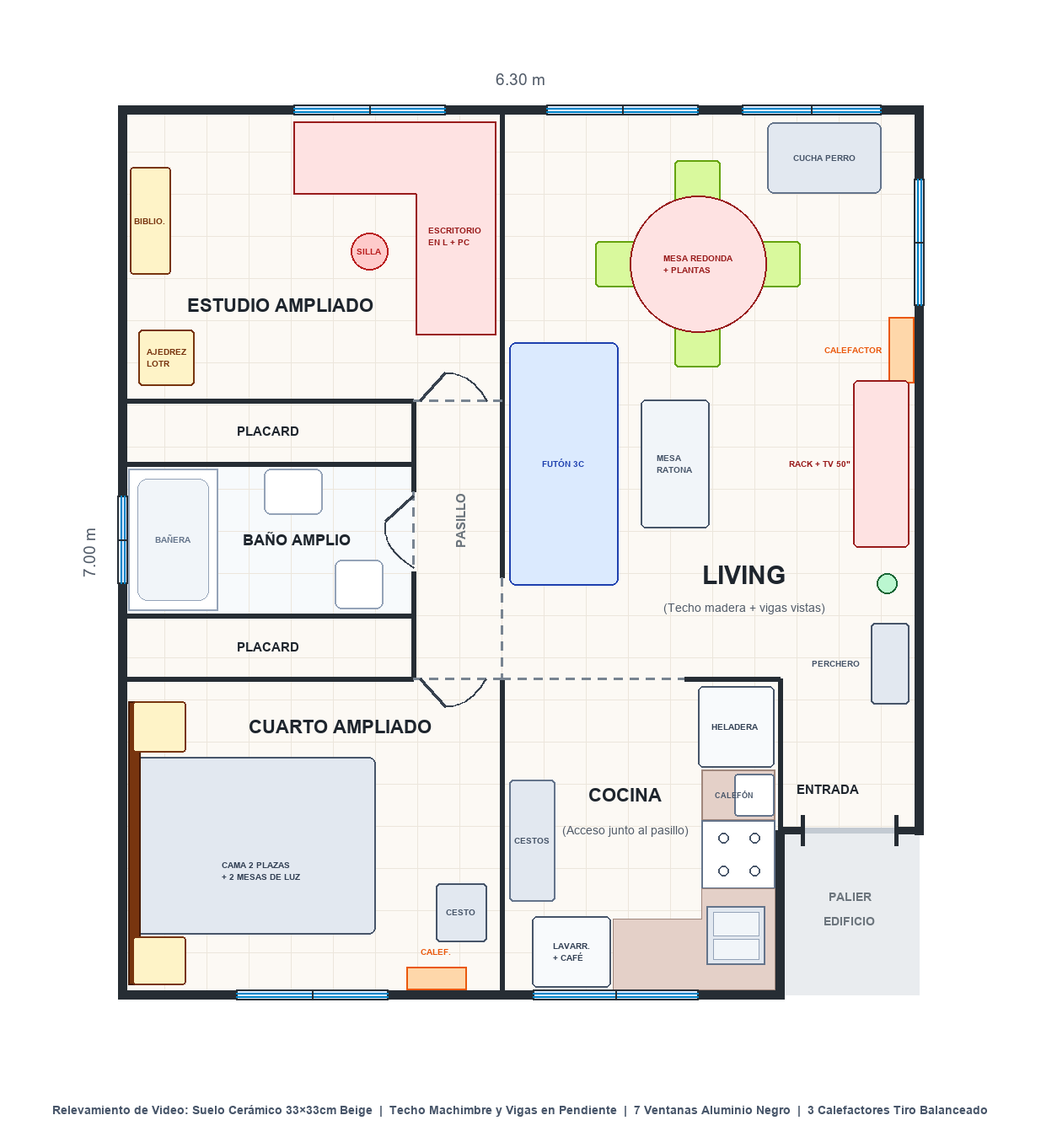
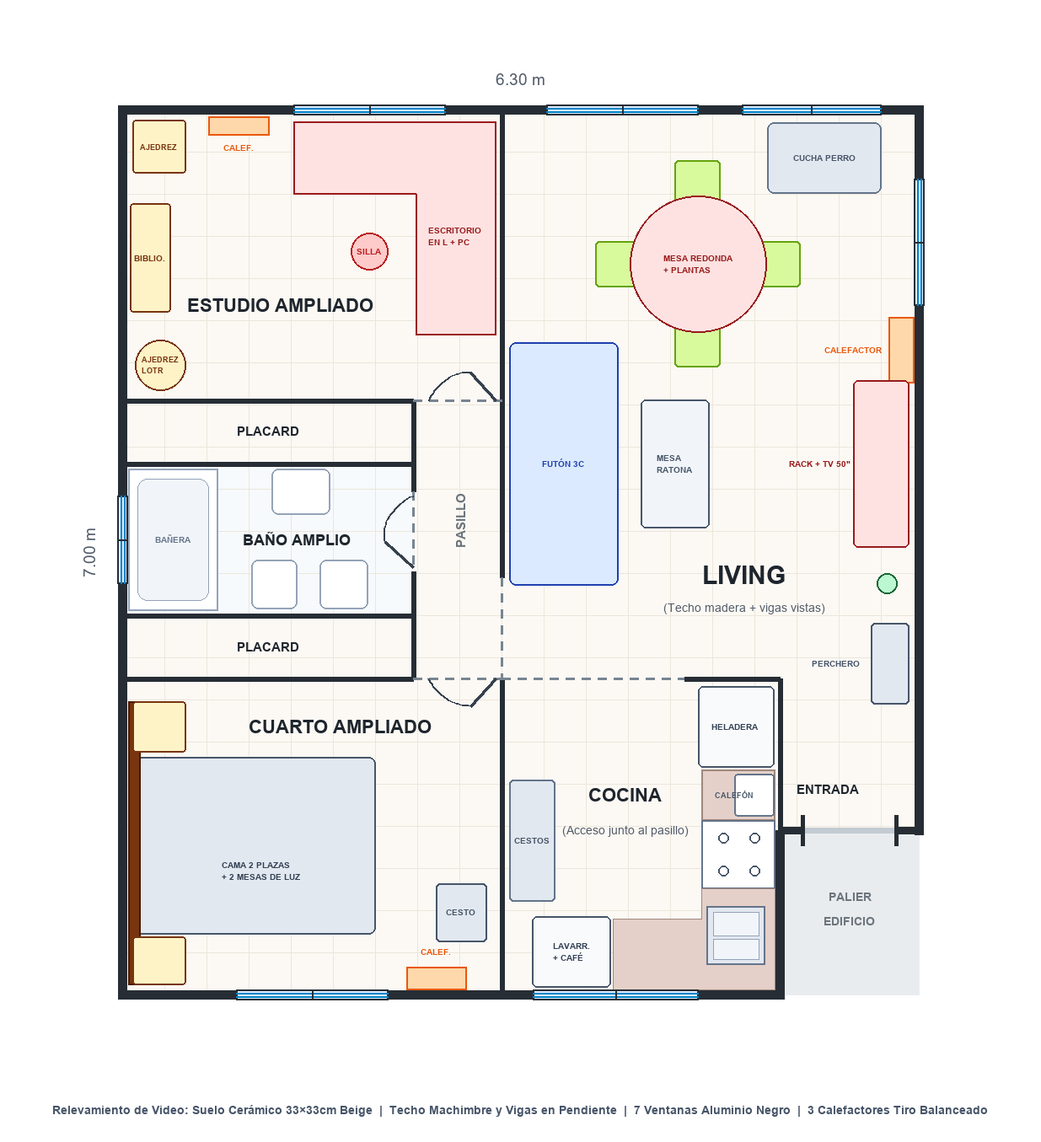
Incorporar relevamiento completo del album de 40 fotos (bisagras puertas, bidet y alacena bano, calefactor norte estudio y 2 ajedreces)

diff --git a/index.html b/index.html
@@ -1230,16 +1230,20 @@
         addBoxFixture(4.48, 0.875, 6.66, 0.40, 0.02, 0.38, 0x94a3b8, fixturesGroup, 0.25);
         addBoxFixture(4.88, 1.00, 6.66, 0.09, 0.24, 0.09, 0x0f172a, fixturesGroup, 0.2); // Filtro purificador de agua negro PSA
 
-        // 3) BAÑO AMPLIO: Bañera en muro Oeste + Lavatorio Pedestal + Inodoro con mochila
-        // Bañera (X=0.05..0.75, Z=2.84..3.96)
+        // 3) BAÑO AMPLIO (según fotos #23 a #29): Bañera con mampara/cortina floral al Oeste + Lavatorio con botiquín espejo al Norte + Inodoro, Bidet y Alacena al Sur
+        // Bañera blanca (X=0.05..0.75, Z=2.84..3.96) + esquinero ducha + cortina de baño blanca
         addBoxFixture(0.40, 0.24, 3.40, 0.70, 0.48, 1.12, 0xffffff, fixturesGroup, 0.25);
         addBoxFixture(0.40, 0.49, 3.40, 0.56, 0.02, 0.96, 0xe2e8f0, fixturesGroup, 0.2);
-        // Lavatorio de pedestal blanco (X=1.35, Z=3.02)
-        addBoxFixture(1.35, 0.42, 2.98, 0.18, 0.80, 0.18, 0xffffff, fixturesGroup, 0.25);
-        addBoxFixture(1.35, 0.82, 3.02, 0.46, 0.14, 0.36, 0xffffff, fixturesGroup, 0.25);
-        // Inodoro con mochila (X=1.86, Z=3.76)
-        addBoxFixture(1.86, 0.22, 3.74, 0.38, 0.42, 0.44, 0xffffff, fixturesGroup, 0.25);
-        addBoxFixture(1.86, 0.58, 3.90, 0.38, 0.34, 0.16, 0xffffff, fixturesGroup, 0.25);
+        // Lavatorio de pedestal blanco en muro Norte (X=1.42, Z=3.02) + botiquín con espejo arriba
+        addBoxFixture(1.42, 0.42, 2.98, 0.18, 0.80, 0.18, 0xffffff, fixturesGroup, 0.25);
+        addBoxFixture(1.42, 0.82, 3.02, 0.46, 0.14, 0.36, 0xffffff, fixturesGroup, 0.25);
+        addBoxFixture(1.42, 1.48, 2.88, 0.52, 0.62, 0.14, 0xd6ccc2, fixturesGroup, 0.4); // Botiquín madera clara con espejo
+        // Inodoro con mochila (X=1.74, Z=3.76) + Bidet blanco (X=1.20, Z=3.76) en muro Sur (Z=4.00)
+        addBoxFixture(1.74, 0.22, 3.74, 0.38, 0.42, 0.44, 0xffffff, fixturesGroup, 0.25);
+        addBoxFixture(1.74, 0.58, 3.90, 0.38, 0.34, 0.16, 0xffffff, fixturesGroup, 0.25);
+        addBoxFixture(1.20, 0.20, 3.75, 0.36, 0.40, 0.42, 0xffffff, fixturesGroup, 0.25); // Bidet 3 llaves
+        // Alacena colgante de baño sobre inodoro y bidet (Muro Sur Z=3.86, X=1.48, Y=1.88: 2 puertas + estantes abiertos con toallas)
+        addBoxFixture(1.48, 1.88, 3.86, 0.78, 0.56, 0.26, 0xe5dec9, fixturesGroup, 0.45);
 
         // 4) TECHO DE MADERA MACHIMBRADA EN PENDIENTE CON VIGAS VISTAS DE NORTE A SUR (Extraído de las fotos y videos)
         // Dos faldones que suben hacia la cumbrera central Este-Oeste (Z = 3.50, de 2.62m en frentes Norte/Sur a 3.30m en la cumbrera)
@@ -1304,9 +1308,9 @@
         // Eje Vertical X = 2.30 (Cierre de Placards y Baño):
         // - Muro sólido más largo arriba: de Y = 2.30 a Y = 3.02 (cubre Placard Sup. 2.30..2.80 + mocheta superior del Baño 2.80..3.02)
         addWallSegment(2.30, 2.30, 2.30, 3.02, INT_T, interiorWallsGroup, false);
-        // - PUERTA BAÑO: Entre Y = 3.02 e Y = 3.65 (abre HACIA ADENTRO del Baño, hacia la izquierda X < 2.30)
+        // - PUERTA BAÑO: Entre Y = 3.02 e Y = 3.65 (bisagra al Sur en Y=3.65, abre HACIA ADENTRO del Baño hacia la izquierda X < 2.30, foto #23)
         addDashedLine(2.30, 3.02, 2.30, 3.65);
-        addDoorSymbol2D(2.30, 3.05, 2.08, 3.25, 2.04, 3.46, 2.30, 3.62);
+        addDoorSymbol2D(2.30, 3.62, 2.08, 3.42, 2.04, 3.20, 2.30, 3.05);
         // - Muro sólido abajo: de Y = 3.65 a Y = 4.50 (mocheta inferior del Baño 3.65..4.00 + Placard Inf. 4.00..4.50)
         addWallSegment(2.30, 3.65, 2.30, 4.50, INT_T, interiorWallsGroup, false);
 
@@ -1324,9 +1328,9 @@
         // Eje Horizontal Y = 2.30 (Base Estudio):
         // - Muro sólido de X = 0.00 a X = 2.30
         addWallSegment(0.00, 2.30, 2.30, 2.30, INT_T, interiorWallsGroup, false);
-        // - PUERTA ESTUDIO: De X = 2.30 a X = 3.00 (abre HACIA ADENTRO del Estudio, hacia arriba Y < 2.30)
+        // - PUERTA ESTUDIO: De X = 2.30 a X = 3.00 (bisagra al Este en X=3.00, abre HACIA ADENTRO del Estudio sobre muro Este, fotos #39 y #40)
         addDashedLine(2.30, 2.30, 3.00, 2.30);
-        addDoorSymbol2D(2.35, 2.30, 2.55, 2.08, 2.75, 2.08, 2.88, 2.30);
+        addDoorSymbol2D(2.95, 2.30, 2.75, 2.08, 2.55, 2.08, 2.42, 2.30);
 
         // Eje Horizontal Y = 2.80 (Divide Placard Superior y Baño): de X = 0.00 a X = 2.30
         addWallSegment(0.00, 2.80, 2.30, 2.80, INT_T, interiorWallsGroup, false);
@@ -1337,9 +1341,9 @@
         // Eje Horizontal Y = 4.50 (Línea Cuarto y Cocina):
         // - Muro sólido de X = 0.00 a X = 2.30 (divide Placard Inferior y Cuarto)
         addWallSegment(0.00, 4.50, 2.30, 4.50, INT_T, interiorWallsGroup, false);
-        // - PUERTA CUARTO: De X = 2.30 a X = 3.00 (abre HACIA ADENTRO del Cuarto, hacia abajo Y > 4.50)
+        // - PUERTA CUARTO: De X = 2.30 a X = 3.00 (bisagra al Este en X=3.00, abre HACIA ADENTRO del Cuarto sobre muro Este, fotos #17 y #22)
         addDashedLine(2.30, 4.50, 3.00, 4.50);
-        addDoorSymbol2D(2.35, 4.50, 2.55, 4.72, 2.75, 4.72, 2.88, 4.50);
+        addDoorSymbol2D(2.95, 4.50, 2.75, 4.72, 2.55, 4.72, 2.42, 4.50);
         // - VANO ABIERTO COCINA (SIN PUERTA): Paso libre de X = 3.00 a X = 4.45 alineado con el pasillo de la cocina; mocheta de X = 4.45 a X = 5.20 delante del lateral de la heladera
         addDashedLine(3.00, 4.50, 4.45, 4.50);
         // - Mocheta frontal de Cocina (cubre el espesor de la heladera): De X = 4.45 a X = 5.20
@@ -1550,13 +1554,16 @@
             cocinaLintel.scale.set(wCocinaVano, lintelH, INT_T);
             cocinaLintel.position.set(3.725, DOOR_H + lintelH / 2, 4.50);
             doors3DGroup.add(cocinaLintel);
-            // Instanciar puertas 3D relevadas del video
+            // Instanciar puertas 3D relevadas de las fotos (#17, #23, #39, #40):
+            // - Puerta Estudio: bisagra en X=3.00 (hingeAtStart=false), abre hacia adentro sobre muro Este (swingSign=-1)
+            // - Puerta Baño: bisagra en Z=3.65 (hingeAtStart=false), abre hacia adentro al Sur (swingSign=1)
+            // - Puerta Cuarto: bisagra en X=3.00 (hingeAtStart=false), abre hacia adentro sobre muro Este (swingSign=1)
             addMainEntranceDoor3D(5.38, 5.70, 6.12, 5.70);
-            addInteriorWoodDoor3D(2.30, 2.30, 3.00, 2.30, true, 1, 45);
-            addInteriorWoodDoor3D(2.30, 3.02, 2.30, 3.65, true, -1, 45);
-            addInteriorWoodDoor3D(2.30, 4.50, 3.00, 4.50, true, -1, 45);
-            addSlidingPlacardFront3D(0.15, 2.18, 2.30, -1);
-            addSlidingPlacardFront3D(0.15, 2.18, 4.50, 1);
+            addInteriorWoodDoor3D(2.30, 2.30, 3.00, 2.30, false, -1, 55);
+            addInteriorWoodDoor3D(2.30, 3.02, 2.30, 3.65, false, 1, 55);
+            addInteriorWoodDoor3D(2.30, 4.50, 3.00, 4.50, false, 1, 55);
+            addSlidingPlacardFront3D(0.22, 1.92, 2.30, -1);
+            addSlidingPlacardFront3D(0.22, 1.92, 4.50, 1);
         }
         setTimeout(ensure3DExtrasBuilt, 60);
 
@@ -1780,30 +1787,31 @@
             addDecorBox(3.06, 2.15, 5.35, 0.06, 0.16, 0.24, 0xffffff, 0.3);  // Aplique de pared medialuna blanco
 
             // ------------------------------------------------------------------------
-            // C) CUARTO AMPLIADO ([0.00, 4.50] a [3.00, 7.00]) - CAMA Y MESAS DE LUZ SOBRE MURO OESTE (X=0.00)
+            // C) CUARTO AMPLIADO ([0.00, 4.50] a [3.00, 7.00]) - CAMA Y MESAS DE LUZ SOBRE MURO OESTE (X=0.00, fotos #17 a #22)
             // ------------------------------------------------------------------------
             // 1. Amplio respaldo horizontal de madera oscura nogal/wengué en Muro Oeste X=0.00 (Z=4.68..6.90)
             addDecorBox(0.08, 0.68, 5.80, 0.06, 1.15, 2.22, 0x4a3222, 0.5);
-            // 2. Cama de 2 plazas (1.45m ancho × 1.90m largo) con cabecera en X=0.10 extendiéndose hacia el Este hasta X=2.00, centrada en Z=5.80
+            // 2. Cama de 2 plazas (1.45m ancho × 1.90m largo) con cabecera en X=0.10 extendiéndose hacia el Este hasta X=2.00, centrada en Z=5.80 + 2 valijas abiertas encima (fotos #18-#21)
             addDecorBox(1.05, 0.24, 5.80, 1.90, 0.46, 1.45, 0x475569, 0.7);  // Colchón + acolchado a rayas gris topo
             addDecorBox(1.05, 0.48, 5.80, 1.86, 0.03, 1.40, 0x64748b, 0.75); // Franjas claras del acolchado
             addDecorBox(0.32, 0.53, 5.48, 0.34, 0.10, 0.52, 0xe2e8f0, 0.8);  // Almohada norte (lado Oeste)
             addDecorBox(0.32, 0.53, 6.12, 0.34, 0.10, 0.52, 0xe2e8f0, 0.8);  // Almohada sur (lado Oeste)
+            addDecorBox(1.48, 0.58, 5.56, 0.58, 0.16, 0.42, 0x1e293b, 0.4);  // Valija negra sobre la cama
             // 3. 2 Mesas de luz de madera nogal oscuro a ambos lados de la cama (sobre Muro Oeste X=0.00):
-            // - Mesa de luz Norte (X=0.28, Z=4.84, pegada al Placard Inferior) con humidificador cilíndrico blanco y parlante inteligente
+            // - Mesa de luz Norte (X=0.28, Z=4.84, pegada al Placard Inferior) con humidificador blanco y parlante inteligente
             addDecorBox(0.28, 0.31, 4.84, 0.42, 0.62, 0.44, 0x4a3222, 0.5);
             addDecorCyl(0.28, 0.72, 4.90, 0.07, 0.07, 0.18, 0xffffff, 0.2);  // Humidificador blanco
-            // - Mesa de luz Sur (X=0.28, Z=6.72, en esquina Suroeste) con reloj digital blanco, peluches y bolso naranja
+            // - Mesa de luz Sur (X=0.28, Z=6.72, en esquina Suroeste) con reloj digital blanco y peluches
             addDecorBox(0.28, 0.31, 6.72, 0.42, 0.62, 0.42, 0x4a3222, 0.5);
-            addDecorBox(0.26, 0.74, 6.84, 0.26, 0.24, 0.14, 0xea580c, 0.6);  // Bolso naranja en esquina SO
-            // 4. Panel calefactor eléctrico negro en muro Sur (X=2.48, Z=6.88) + Cesto de ropa sucia gris en esquina SE (X=2.68, Z=6.35)
-            addDecorBox(2.48, 0.42, 6.88, 0.52, 0.52, 0.05, 0x0f172a, 0.2);  // Panel calefactor vidrio negro
-            addDecorBox(2.68, 0.35, 6.35, 0.40, 0.70, 0.44, 0x334155, 0.8);  // Cesto ropa sucia gris oscuro (frente a la puerta del cuarto)
+            // 4. Panel calefactor eléctrico negro en muro Sur (X=2.48, Z=6.88) + Cesto de ropa sucia gris en muro Este (X=2.72, Z=6.20, foto #17) + Valijas sobre baulera del placard (foto #20)
+            addDecorBox(2.48, 0.48, 6.88, 0.50, 0.50, 0.05, 0x0f172a, 0.2);  // Panel calefactor vidrio negro
+            addDecorBox(2.72, 0.35, 6.20, 0.38, 0.70, 0.44, 0x475569, 0.8);  // Cesto ropa sucia gris con ropa arriba
+            addDecorBox(1.38, 2.36, 4.28, 0.72, 0.44, 0.40, 0x1e293b, 0.5);  // Valijas grandes sobre el placard del cuarto (foto #20)
             // 5. Cortina gris topo con barral de madera en la ventana Sur del Cuarto (V5: X=0.90..2.10, Z=7.00)
             addCurtainAssembly(0.90, 7.00, 2.10, 7.00, 0, -0.12, 0x78716c);
 
             // ------------------------------------------------------------------------
-            // D) ESTUDIO AMPLIADO ([0.00, 0.00] a [3.00, 2.30])
+            // D) ESTUDIO AMPLIADO ([0.00, 0.00] a [3.00, 2.30], fotos #31 a #40)
             // ------------------------------------------------------------------------
             // 1. Escritorio en "L" de madera lustrada caoba/cedro rojizo (#8f3818):
             // - Tramo principal sobre Muro Este (X=2.64, Z=0.14..1.78)
@@ -1813,11 +1821,12 @@
             // - Gabinete PC Gamer negro bajo el extremo sur del escritorio (X=2.66, Z=1.54) + impresora bajo el ala norte
             addDecorBox(2.66, 0.24, 1.54, 0.44, 0.46, 0.22, 0x0f172a, 0.3);  // PC Gamer negra Thermaltake
             addDecorBox(1.92, 0.22, 0.38, 0.42, 0.28, 0.36, 0x1e293b, 0.4);  // Impresora multifunción abajo
-            // - Equipamiento sobre el escritorio: Deskmat negro XXL + Monitor 27" + Teclado/Mouse + Parlantes + Bandeja blanca + Lámpara aro LED
+            // - Equipamiento sobre el escritorio (foto #40): Deskmat negro + Monitor 27" + Soporte notebook aluminio + Micrófono en brazo + Parlantes + Lámpara lupa LED
             addDecorBox(2.54, 0.77, 1.02, 0.42, 0.01, 0.88, 0x111827, 0.6);  // Deskmat negro
             addDecorBox(2.80, 1.06, 0.98, 0.05, 0.38, 0.62, 0x0f172a, 0.2);  // Monitor 27" con webcam y barra LED
-            addDecorBox(2.74, 0.92, 1.50, 0.16, 0.26, 0.22, 0x111827, 0.3);  // Parlantes 2.1 + auriculares en soporte
-            addDecorBox(2.58, 0.81, 1.58, 0.26, 0.08, 0.32, 0xf8fafc, 0.3);  // Bandeja organizadora blanca
+            addDecorBox(2.58, 0.90, 0.52, 0.22, 0.22, 0.24, 0x94a3b8, 0.3);  // Soporte aluminio de notebook
+            addDecorBox(2.74, 0.92, 1.50, 0.16, 0.26, 0.22, 0x111827, 0.3);  // Parlantes 2.1 + auriculares en soporte + brazo micrófono
+            addDecorBox(2.58, 0.81, 1.58, 0.26, 0.08, 0.32, 0xf8fafc, 0.3);  // Papeles y bandeja blanca
             addDecorCyl(2.12, 1.05, 0.42, 0.10, 0.10, 0.02, 0x1e293b);       // Lámpara articulada con aro LED / lupa
             addDecorCyl(2.12, 0.84, 0.48, 0.05, 0.06, 0.14, 0x10b981);       // Escultura impresa en 3D resina verde
 
@@ -1826,20 +1835,28 @@
             addDecorBox(1.75, 0.72, 1.12, 0.12, 0.68, 0.48, 0x111827, 0.5);  // Respaldo alto negro
             addDecorBox(1.74, 0.72, 1.12, 0.13, 0.64, 0.50, 0xdc2626, 0.5);  // Bordes rojos silla gamer
 
-            // 3. 2 Estantes flotantes largos de madera sobre Muro Este (X=2.84, Z=0.22..1.80, Y=1.45 y Y=1.82) con libros, consolas y potus
-            addDecorBox(2.84, 1.45, 1.02, 0.22, 0.03, 1.58, 0x9a441e, 0.45); // Estante flotante inferior (Consolas Nintendo / Globo / Estuches)
-            addDecorBox(2.84, 1.82, 1.02, 0.22, 0.03, 1.58, 0x9a441e, 0.45); // Estante flotante superior (Colección Libros Tolkien + Potus)
-            addDecorBox(2.84, 1.96, 1.08, 0.18, 0.24, 1.10, 0x7f1d1d, 0.6);  // Hilera de libros encuadernados
-            addDecorCyl(2.84, 1.96, 0.32, 0.09, 0.08, 0.24, 0x16a34a, 0.6);  // Planta Potus colgante en el extremo norte
+            // 3. 3 Estantes flotantes largos de madera sobre Muro Este (X=2.84, Z=0.22..1.80, foto #40) con libros Tolkien, consolas Game Boy/Switch y potus
+            addDecorBox(2.84, 1.38, 1.02, 0.22, 0.03, 1.58, 0x9a441e, 0.45); // 1° Estante inferior (Consolas Game Boy / DS / Switch Pikachu / Globo / Estuches)
+            addDecorBox(2.84, 1.72, 1.02, 0.22, 0.03, 1.58, 0x9a441e, 0.45); // 2° Estante medio (Colección Libros Tolkien + Bolso cámara + Potus)
+            addDecorBox(2.84, 2.06, 0.85, 0.22, 0.03, 1.20, 0x9a441e, 0.45); // 3° Estante superior (Maceta potus y figura Goku, foto #40)
+            addDecorBox(2.84, 1.86, 1.15, 0.18, 0.24, 0.96, 0x7f1d1d, 0.6);  // Hilera de libros encuadernados Tolkien
+            addDecorCyl(2.84, 1.86, 0.30, 0.09, 0.08, 0.24, 0x16a34a, 0.6);  // Planta Potus colgante en el extremo norte
 
-            // 4. Biblioteca alta de madera oscura de 5 estantes en Muro Oeste (X=0.20, Z=0.88) + Funda Guitarra + Mesa con Ajedrez LOTR (X=0.35, Z=1.96)
-            addDecorBox(0.20, 0.92, 0.88, 0.32, 1.84, 0.82, 0x3b2314, 0.55); // Biblioteca 5 estantes (libros, figuras Toy Story, peluches Pokémon, Switch 2, Torre Eiffel)
-            addDecorCyl(0.22, 0.52, 1.48, 0.12, 0.18, 1.02, 0x1e293b, 0.7);  // Funda negra de guitarra acústica
-            // - Mesita plegable de madera clara con Tablero de Ajedrez de El Señor de los Anillos en la esquina SO junto al placard (X=0.35, Z=1.96)
-            addDecorBox(0.35, 0.36, 1.96, 0.44, 0.72, 0.44, 0xd4a373, 0.55); // Mesita plegable madera clara
-            addDecorBox(0.35, 0.74, 1.96, 0.42, 0.04, 0.42, 0x1e293b, 0.3);  // Tablero de Ajedrez LOTR
+            // 4. Muro Norte (izquierda de la ventana, foto #33): Panel calefactor eléctrico negro (X=0.92, Z=0.08) + Mesa plegable con Ajedrez clásico en esquina NO (X=0.28, Z=0.28)
+            addDecorBox(0.92, 0.48, 0.08, 0.50, 0.50, 0.05, 0x0f172a, 0.2);  // Panel calefactor eléctrico vidrio negro en pared Norte (foto #33)
+            addDecorBox(0.28, 0.35, 0.28, 0.44, 0.70, 0.44, 0xb47b48, 0.55); // Mesa plegable cuadrada en esquina Noroeste (foto #33)
+            addDecorBox(0.28, 0.72, 0.28, 0.38, 0.03, 0.38, 0x1e293b, 0.3);  // Tablero de ajedrez clásico en esquina NO
 
-            // 5. Cortina gris oscura con visillo blanco en la ventana Norte del Estudio (V4: X=1.35..2.55, Z=0.00, encuadrada sobre el ala Norte del escritorio en L)
+            // 5. Muro Oeste (X=0.00, fotos #35 a #38): Biblioteca alta de 6 niveles (X=0.20, Z=1.18) + Funda Guitarra (Z=1.68) + Mesita redonda con Ajedrez LOTR en esquina SO (X=0.28, Z=2.04) + Aspiradora Kärcher amarilla
+            addDecorBox(0.20, 0.92, 1.18, 0.32, 1.84, 0.84, 0x3b2314, 0.55); // Biblioteca 6 estantes (libros, Buzz/Woody, peluches Pokémon, cajas Switch/Switch 2 y Torre Eiffel arriba)
+            addDecorBox(0.20, 2.02, 1.18, 0.26, 0.32, 0.72, 0xdc2626, 0.5);  // Cajas Nintendo Switch / Switch 2 / Funko sobre la biblioteca (foto #35)
+            addDecorCyl(0.22, 0.52, 1.72, 0.12, 0.18, 1.02, 0x1e293b, 0.7);  // Funda negra acolchada de guitarra acústica (foto #35 y #37)
+            addDecorCyl(0.28, 0.36, 2.04, 0.22, 0.22, 0.72, 0xd4a373, 0.55); // Mesita redonda plegable de madera clara en esquina SO junto al placard (foto #37)
+            addDecorCyl(0.28, 0.74, 2.04, 0.20, 0.20, 0.04, 0x475569, 0.3);  // Tablero de Ajedrez El Señor de los Anillos (LOTR)
+            addDecorCyl(1.12, 0.18, 2.04, 0.14, 0.14, 0.34, 0xeab308, 0.3);  // Aspiradora Kärcher amarilla y negra frente al placard del estudio (foto #37 y #38)
+            addDecorCyl(1.48, 2.28, 2.48, 0.28, 0.28, 0.22, 0x334155, 0.7);  // Rueda de auxilio y cajas sobre la baulera del placard del estudio (foto #37)
+
+            // 6. Cortina gris oscura con visillo blanco en la ventana Norte del Estudio (V4: X=1.35..2.55, Z=0.00, encuadrada sobre el ala Norte del escritorio en L)
             addCurtainAssembly(1.35, 0.00, 2.55, 0.00, 0, 0.12, 0x57534e);
         }
         buildFurnishedVideoDecor();
@@ -1881,10 +1898,11 @@
         // Etiquetas de Calefactores e Instalaciones del video
         addPlanLabel(5.75, 1.90, "🔥 CALEFACTOR", "arch-label sub");
         addPlanLabel(2.48, 6.62, "🔥 CALEF.", "arch-label sub");
+        addPlanLabel(0.92, 0.22, "🔥 CALEF.", "arch-label sub");
         addPlanLabel(0.40, 3.40, "BAÑERA", "arch-label sub");
         addPlanLabel(4.88, 5.42, "CALEFÓN", "arch-label sub");
 
-        // Etiquetas de Muebles y Decoración extraídos del 2° video (se ocultan si se desactiva "🛋 Amoblado")
+        // Etiquetas de Muebles y Decoración extraídos del 2° video y fotos (se ocultan si se desactiva "🛋 Amoblado")
         addPlanLabel(3.52, 2.80, "🛋 FUTÓN 3C", "arch-label sub", true);
         addPlanLabel(4.38, 2.80, "MESA RATONA", "arch-label sub", true);
         addPlanLabel(5.96, 2.80, "📺 TV 50\" + RACK", "arch-label sub", true);
@@ -1896,11 +1914,12 @@
         addPlanLabel(1.05, 5.95, "🛏 CAMA 2P + RESPALDO", "arch-label sub", true);
         addPlanLabel(0.28, 4.84, "MESA LUZ", "arch-label sub", true);
         addPlanLabel(0.28, 6.72, "MESA LUZ", "arch-label sub", true);
-        addPlanLabel(2.68, 6.35, "CESTO ROPA", "arch-label sub", true);
+        addPlanLabel(2.70, 6.20, "CESTO ROPA", "arch-label sub", true);
         addPlanLabel(2.58, 0.96, "🖥 ESCRITORIO EN L + PC", "arch-label sub", true);
         addPlanLabel(1.95, 1.12, "💺 SILLA GAMER", "arch-label sub", true);
-        addPlanLabel(0.32, 0.88, "📚 BIBLIOTECA", "arch-label sub", true);
-        addPlanLabel(0.42, 1.96, "♟ AJEDREZ LOTR", "arch-label sub", true);
+        addPlanLabel(0.32, 1.18, "📚 BIBLIOTECA", "arch-label sub", true);
+        addPlanLabel(0.38, 0.28, "♟ AJEDREZ", "arch-label sub", true);
+        addPlanLabel(0.38, 2.04, "♟ AJEDREZ LOTR", "arch-label sub", true);
 
         // Cotas Exteriores
         addPlanLabel(3.15, -0.30, "6.30 m", "arch-label dim");

diff --git a/generate_2d_plan.py b/generate_2d_plan.py
@@ -189,17 +189,18 @@ def main():
     draw.rectangle([*px(4.67, 6.35), *px(5.03, 6.53)], fill=(241, 245, 249), outline=(148, 163, 184), width=1)
     draw.rectangle([*px(4.67, 6.56), *px(5.03, 6.72)], fill=(241, 245, 249), outline=(148, 163, 184), width=1)
 
-    # --- BAÑO: Bañera (X=0.04..0.74, Y=2.84..3.96), Lavatorio (X=1.10..1.55, Y=2.84..3.22), Inodoro (X=1.65..2.05, Y=3.55..3.96) ---
+    # --- BAÑO (según fotos #23 a #29): Bañera (X=0.05..0.75), Lavatorio + Botiquín (X=1.18..1.64, Y=2.84..3.20), Bidet (X=1.02..1.38, Y=3.56..3.95) e Inodoro (X=1.56..1.94, Y=3.56..3.95) ---
     draw.rectangle([*px(0.05, 2.84), *px(0.75, 3.96)], fill=(255, 255, 255), outline=(148, 163, 184), width=2)
     draw.rounded_rectangle([*px(0.12, 2.92), *px(0.68, 3.88)], radius=12, fill=(241, 245, 249), outline=(148, 163, 184), width=1)
     draw.text(px(0.40, 3.40), "BAÑERA", fill=(100, 116, 139), font=load_font(10, bold=True), anchor="mm")
 
-    # Lavatorio
-    draw.rounded_rectangle([*px(1.12, 2.84), *px(1.58, 3.20)], radius=8, fill=(255, 255, 255), outline=(148, 163, 184), width=2)
-    # Inodoro
-    draw.rounded_rectangle([*px(1.68, 3.56), *px(2.06, 3.95)], radius=8, fill=(255, 255, 255), outline=(148, 163, 184), width=2)
+    # Lavatorio (Norte)
+    draw.rounded_rectangle([*px(1.18, 2.84), *px(1.64, 3.20)], radius=8, fill=(255, 255, 255), outline=(148, 163, 184), width=2)
+    # Bidet (Sur-Oeste) e Inodoro (Sur-Este)
+    draw.rounded_rectangle([*px(1.02, 3.56), *px(1.38, 3.95)], radius=8, fill=(255, 255, 255), outline=(148, 163, 184), width=2)
+    draw.rounded_rectangle([*px(1.56, 3.56), *px(1.94, 3.95)], radius=8, fill=(255, 255, 255), outline=(148, 163, 184), width=2)
 
-    # --- CALEFACTORES TIRO BALANCEADO (3 relevados en el video) ---
+    # --- CALEFACTORES (Living tiro balanceado + Cuarto y Estudio paneles eléctricos negros, fotos #13, #17 y #33) ---
     heater_fill = (254, 215, 170)
     heater_border = (234, 88, 12)
     # 1) Living Este (X=6.06 a 6.26, Y=1.64 a 2.16, entre ventana V3 y el Rack de TV)
@@ -208,6 +209,9 @@ def main():
     # 2) Cuarto Sur-Este (X=2.25 a 2.72, Y=6.78 a 6.96)
     draw.rectangle([*px(2.25, 6.78), *px(2.72, 6.96)], fill=heater_fill, outline=heater_border, width=2)
     draw.text(px(2.48, 6.66), "CALEF.", fill=heater_border, font=load_font(10, bold=True), anchor="mm")
+    # 3) Estudio Norte (X=0.68 a 1.16, Y=0.05 a 0.20, a la izquierda de la ventana V4, foto #33)
+    draw.rectangle([*px(0.68, 0.05), *px(1.16, 0.20)], fill=heater_fill, outline=heater_border, width=2)
+    draw.text(px(0.92, 0.30), "CALEF.", fill=heater_border, font=load_font(10, bold=True), anchor="mm")
 
     # --- MUEBLES, ELECTRODOMÉSTICOS Y DECORACIÓN EXTRAÍDOS DEL 2° VIDEO ---
     f_furn = load_font(10, bold=True)
@@ -257,16 +261,22 @@ def main():
     draw.rounded_rectangle([*px(2.48, 6.12), *px(2.88, 6.58)], radius=5, fill=(226, 232, 240), outline=(71, 85, 105), width=2)
     draw.text(px(2.68, 6.35), "CESTO", fill=(71, 85, 105), font=f_furn, anchor="mm")
 
-    # D) ESTUDIO AMPLIADO: Escritorio en "L" + PC Gamer + Estantes + Silla Gamer + Biblioteca 5 Estantes + Mesa Ajedrez LOTR
+    # D) ESTUDIO AMPLIADO (según fotos #31 a #40): Escritorio en "L" + PC Gamer + 3 Estantes + Silla Gamer + Mesa Ajedrez NO + Biblioteca 6 Estantes + Mesa redonda Ajedrez LOTR SO
     draw.polygon([px(1.35, 0.09), px(2.95, 0.09), px(2.95, 1.78), px(2.32, 1.78), px(2.32, 0.67), px(1.35, 0.67)], fill=(254, 226, 226), outline=(153, 27, 27), width=2)
     draw.text(px(2.63, 1.00), "ESCRITORIO\nEN L + PC", fill=(153, 27, 27), font=f_furn, anchor="mm")
     cx_sg, cy_sg = px(1.95, 1.12)
     draw.ellipse([cx_sg - 22, cy_sg - 22, cx_sg + 22, cy_sg + 22], fill=(254, 202, 202), outline=(185, 28, 28), width=2)
     draw.text(px(1.95, 1.12), "SILLA", fill=(185, 28, 28), font=f_furn, anchor="mm")
-    draw.rounded_rectangle([*px(0.06, 0.45), *px(0.38, 1.30)], radius=4, fill=(254, 243, 199), outline=(120, 53, 15), width=2)
-    draw.text(px(0.22, 0.88), "BIBLIO.", fill=(120, 53, 15), font=f_furn, anchor="mm")
-    draw.rounded_rectangle([*px(0.13, 1.74), *px(0.57, 2.18)], radius=5, fill=(254, 243, 199), outline=(120, 53, 15), width=2)
-    draw.text(px(0.35, 1.96), "AJEDREZ\nLOTR", fill=(120, 53, 15), font=f_furn, anchor="mm")
+    # Mesa plegable cuadrada con ajedrez clásico en esquina Noroeste (foto #33)
+    draw.rounded_rectangle([*px(0.08, 0.08), *px(0.50, 0.50)], radius=4, fill=(254, 243, 199), outline=(120, 53, 15), width=2)
+    draw.text(px(0.29, 0.29), "AJEDREZ", fill=(120, 53, 15), font=load_font(9, bold=True), anchor="mm")
+    # Biblioteca alta de 6 estantes en pared Oeste (foto #35)
+    draw.rounded_rectangle([*px(0.06, 0.74), *px(0.38, 1.60)], radius=4, fill=(254, 243, 199), outline=(120, 53, 15), width=2)
+    draw.text(px(0.22, 1.17), "BIBLIO.", fill=(120, 53, 15), font=f_furn, anchor="mm")
+    # Mesita redonda con Ajedrez LOTR en esquina Suroeste junto al placard (foto #37)
+    cx_aj, cy_aj = px(0.30, 2.02)
+    draw.ellipse([cx_aj - 30, cy_aj - 30, cx_aj + 30, cy_aj + 30], fill=(254, 243, 199), outline=(120, 53, 15), width=2)
+    draw.text(px(0.30, 2.02), "AJEDREZ\nLOTR", fill=(120, 53, 15), font=load_font(9, bold=True), anchor="mm")
 
     # -------------------------------------------------------------------------
     # 2. PERÍMETRO EXTERIOR (Polígono en "L": 6.30 m x 7.00 m)
@@ -312,9 +322,9 @@ def main():
     # Eje Vertical X = 2.30 (Cierre de Placards y Baño):
     # - Muro sólido superior más largo (de Y = 2.30 a Y = 3.02: Placard Sup. + mocheta superior del Baño)
     draw.line([px(2.30, 2.30), px(2.30, 3.02)], fill=WALL_COLOR, width=INT_W)
-    # - Puerta Baño (de Y = 3.02 a Y = 3.65): abre HACIA ADENTRO del Baño (hacia la izquierda X < 2.30)
+    # - Puerta Baño (de Y = 3.02 a Y = 3.65): bisagra al Sur (Y=3.65), abre HACIA ADENTRO del Baño (foto #23)
     draw_dashed_line(draw, *px(2.30, 3.02), *px(2.30, 3.65), fill=DASH_COLOR, width=3)
-    draw_door_symbol(draw, px, (2.30, 3.05), (2.08, 3.25), (2.04, 3.46), (2.30, 3.62), DOOR_COLOR, width=3)
+    draw_door_symbol(draw, px, (2.30, 3.62), (2.08, 3.42), (2.04, 3.20), (2.30, 3.05), DOOR_COLOR, width=3)
     # - Muro sólido inferior (de Y = 3.65 a Y = 4.50: mocheta inferior del Baño + Placard Inf.)
     draw.line([px(2.30, 3.65), px(2.30, 4.50)], fill=WALL_COLOR, width=INT_W)
 
@@ -328,9 +338,9 @@ def main():
 
     # Eje Horizontal Y = 2.30 (Base Estudio):
     draw.line([px(0.00, 2.30), px(2.30, 2.30)], fill=WALL_COLOR, width=INT_W)
-    # - Puerta Estudio (de X = 2.30 a X = 3.00): abre HACIA ADENTRO del Estudio (hacia arriba Y < 2.30)
+    # - Puerta Estudio (de X = 2.30 a X = 3.00): bisagra al Este (X=3.00), abre HACIA ADENTRO del Estudio sobre muro Este (fotos #39 y #40)
     draw_dashed_line(draw, *px(2.30, 2.30), *px(3.00, 2.30), fill=DASH_COLOR, width=3)
-    draw_door_symbol(draw, px, (2.35, 2.30), (2.55, 2.08), (2.75, 2.08), (2.88, 2.30), DOOR_COLOR, width=3)
+    draw_door_symbol(draw, px, (2.95, 2.30), (2.75, 2.08), (2.55, 2.08), (2.42, 2.30), DOOR_COLOR, width=3)
 
     # Eje Horizontal Y = 2.80 (Divide Placard Superior y Baño): de X = 0.00 a X = 2.30
     draw.line([px(0.00, 2.80), px(2.30, 2.80)], fill=WALL_COLOR, width=INT_W)
@@ -340,9 +350,9 @@ def main():
 
     # Eje Horizontal Y = 4.50 (Línea Cuarto y Cocina):
     draw.line([px(0.00, 4.50), px(2.30, 4.50)], fill=WALL_COLOR, width=INT_W)
-    # - Puerta Cuarto (de X = 2.30 a X = 3.00): abre HACIA ADENTRO del Cuarto (hacia abajo Y > 4.50)
+    # - Puerta Cuarto (de X = 2.30 a X = 3.00): bisagra al Este (X=3.00), abre HACIA ADENTRO del Cuarto sobre muro Este (fotos #17 y #22)
     draw_dashed_line(draw, *px(2.30, 4.50), *px(3.00, 4.50), fill=DASH_COLOR, width=3)
-    draw_door_symbol(draw, px, (2.35, 4.50), (2.55, 4.72), (2.75, 4.72), (2.88, 4.50), DOOR_COLOR, width=3)
+    draw_door_symbol(draw, px, (2.95, 4.50), (2.75, 4.72), (2.55, 4.72), (2.42, 4.50), DOOR_COLOR, width=3)
     # - Cocina SIN PUERTA (vano abierto libre de X = 3.00 a X = 4.45; mocheta de X = 4.45 a X = 5.20 delante de la heladera)
     draw_dashed_line(draw, *px(3.00, 4.50), *px(4.45, 4.50), fill=DASH_COLOR, width=3)
     draw.line([px(4.45, 4.50), px(5.20, 4.50)], fill=WALL_COLOR, width=INT_W)

diff --git a/generate_model.py b/generate_model.py
@@ -219,11 +219,11 @@ def build_apartment():
     b.add_box(2.96, 0.00, 4.44, 3.00, 2.05, 4.56)
     b.add_box(2.30, 2.01, 4.44, 3.00, 2.05, 4.56)
 
-    # Hojas de Puertas Interiores Placa Madera (abiertas hacia adentro de cada ambiente)
+    # Hojas de Puertas Interiores Placa Madera (abiertas hacia adentro de cada ambiente, según fotos #17, #23, #39, #40)
     b.set_group("02C_Hojas_Puertas_Madera", "Door_Wood_Cedar")
-    b.add_box(2.34, 0.01, 1.68, 2.38, 2.01, 2.30)  # Hoja Estudio abierta hacia adentro (Y < 2.30)
-    b.add_box(1.72, 0.01, 3.06, 2.30, 2.01, 3.10)  # Hoja Baño abierta hacia adentro (X < 2.30)
-    b.add_box(2.34, 0.01, 4.50, 2.38, 2.01, 5.12)  # Hoja Cuarto abierta hacia adentro (Y > 4.50)
+    b.add_box(2.92, 0.01, 1.68, 2.96, 2.01, 2.30)  # Hoja Estudio abierta sobre muro Este (X=3.00, Y < 2.30)
+    b.add_box(1.72, 0.01, 3.57, 2.30, 2.01, 3.61)  # Hoja Baño abierta hacia el Sur (X < 2.30, Y=3.61)
+    b.add_box(2.92, 0.01, 4.50, 2.96, 2.01, 5.12)  # Hoja Cuarto abierta sobre muro Este (X=3.00, Y > 4.50)
 
     # Hoja Puerta Principal Gris Moldurada (abierta hacia adentro de Entrada)
     b.set_group("02D_Puerta_Principal_Gris", "Door_Main_Grey")
@@ -249,8 +249,9 @@ def build_apartment():
     b.add_box(4.92, 1.16, 5.24, 5.15, 1.72, 5.60)  # Calefón mural a gas Orbis sobre 1° tramo de mesada
     b.add_box(4.58, 0.00, 5.62, 5.15, 0.86, 6.16)  # Cocina a gas blanca 4 hornallas
     b.add_box(0.05, 0.00, 2.84, 0.75, 0.48, 3.96)  # Bañera
-    b.add_box(1.12, 0.00, 2.84, 1.58, 0.82, 3.20)  # Lavatorio
-    b.add_box(1.68, 0.00, 3.56, 2.06, 0.75, 3.95)  # Inodoro
+    b.add_box(1.18, 0.00, 2.84, 1.64, 0.82, 3.20)  # Lavatorio
+    b.add_box(1.02, 0.00, 3.56, 1.38, 0.40, 3.95)  # Bidet
+    b.add_box(1.56, 0.00, 3.56, 1.94, 0.75, 3.95)  # Inodoro
     b.add_box(4.55, 0.00, 4.57, 5.15, 1.68, 5.19)  # Heladera con freezer en esquina Noreste de Cocina
     b.add_box(3.24, 0.00, 6.38, 3.84, 0.86, 6.94)  # Lavarropas carga frontal bajo ventana Sur (mirando al Norte)
 
@@ -271,8 +272,9 @@ def build_apartment():
     b.add_box(0.10, 0.00, 5.07, 2.00, 0.48, 6.53)  # Cama 2 plazas sobre pared Oeste (Cuarto)
     b.add_box(0.07, 0.00, 4.62, 0.49, 0.62, 5.06)  # Mesa de luz Norte sobre pared Oeste (Cuarto)
     b.add_box(0.07, 0.00, 6.51, 0.49, 0.62, 6.93)  # Mesa de luz Sur sobre pared Oeste (Cuarto)
-    b.add_box(0.04, 0.00, 0.47, 0.36, 1.84, 1.29)  # Biblioteca 5 estantes (Estudio)
-    b.add_box(0.13, 0.00, 1.74, 0.57, 0.74, 2.18)  # Mesa con Ajedrez LOTR (Estudio)
+    b.add_box(0.04, 0.00, 0.76, 0.36, 1.84, 1.60)  # Biblioteca 6 estantes (Estudio)
+    b.add_box(0.06, 0.00, 0.06, 0.50, 0.70, 0.50)  # Mesa con Ajedrez clásico en esquina NO (Estudio)
+    b.add_box(0.08, 0.00, 1.82, 0.50, 0.72, 2.24)  # Mesita redonda con Ajedrez LOTR en esquina SO (Estudio)
 
     b.set_group("05D_Electronica_Y_Perchero", "Electronics_Black")
     b.add_box(5.93, 0.00, 4.06, 6.23, 1.86, 4.70)  # Perchero + Zapatero Entrada
